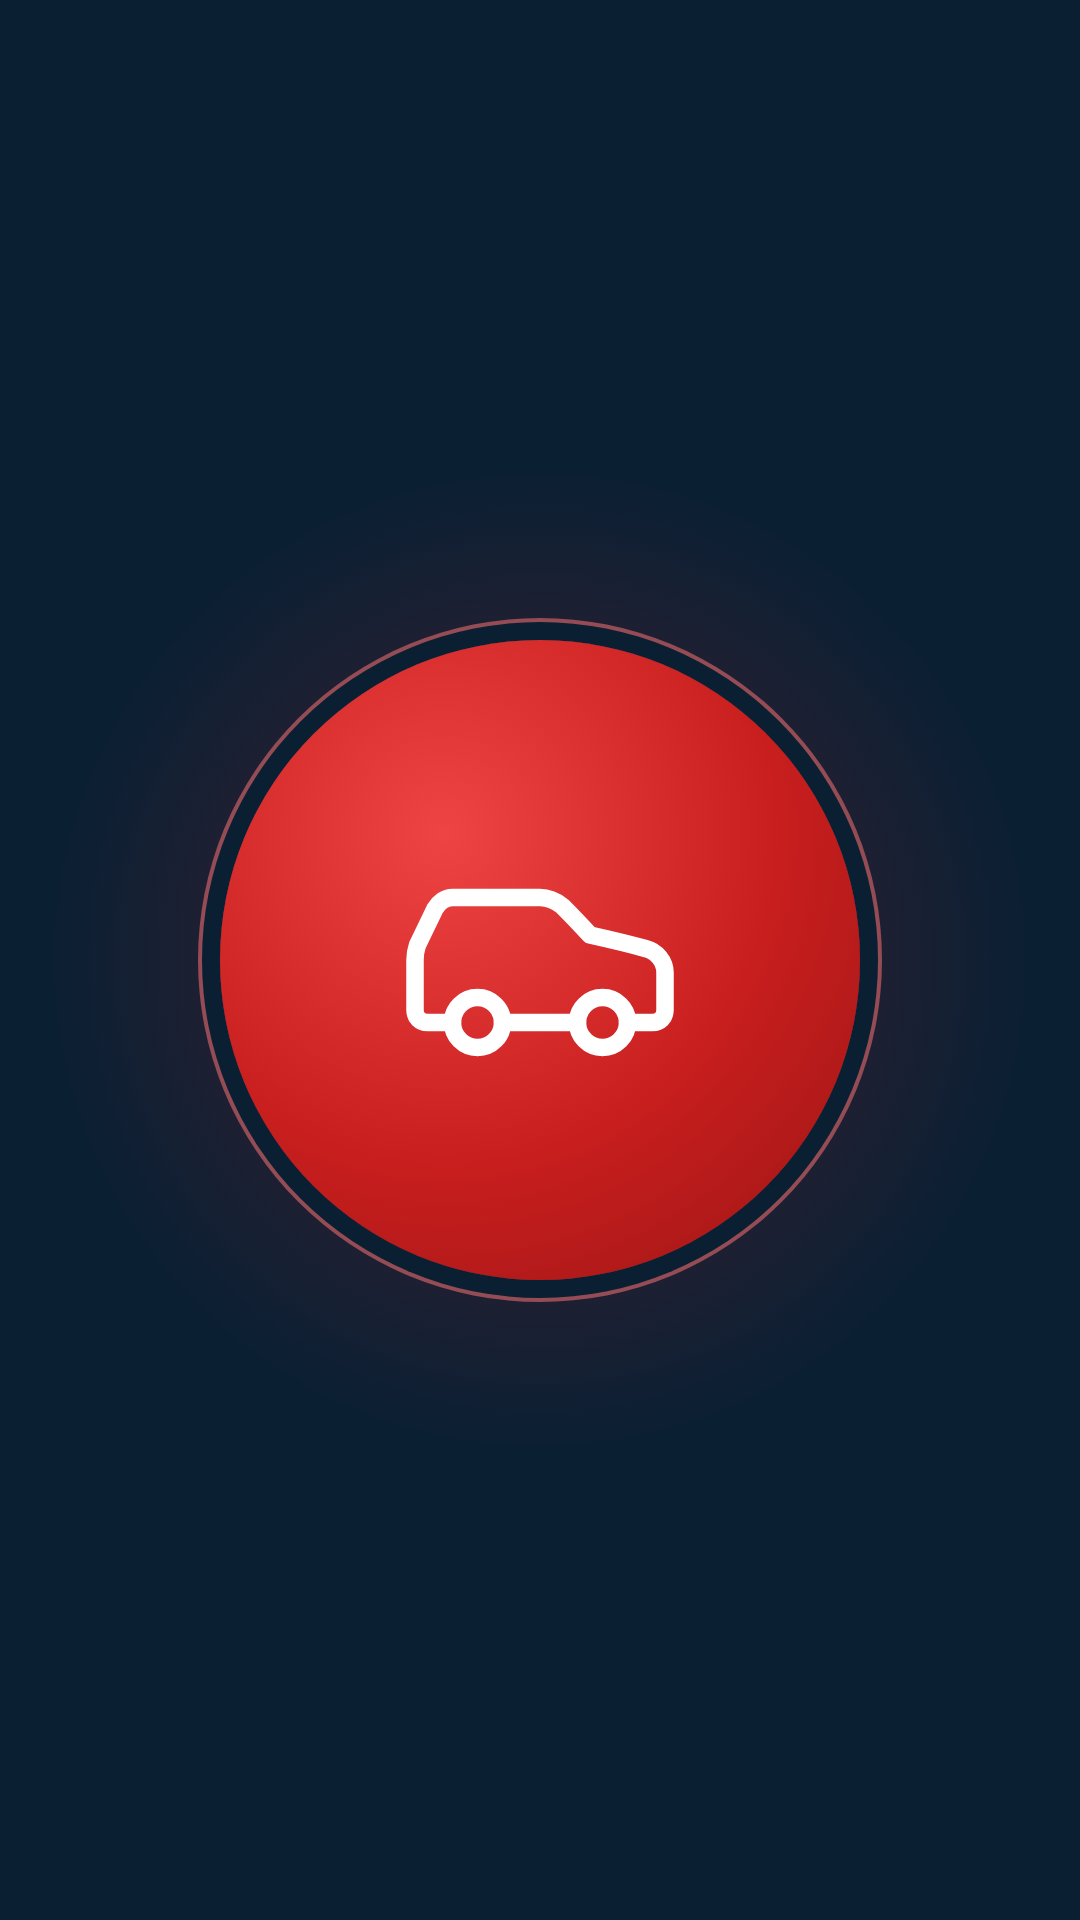
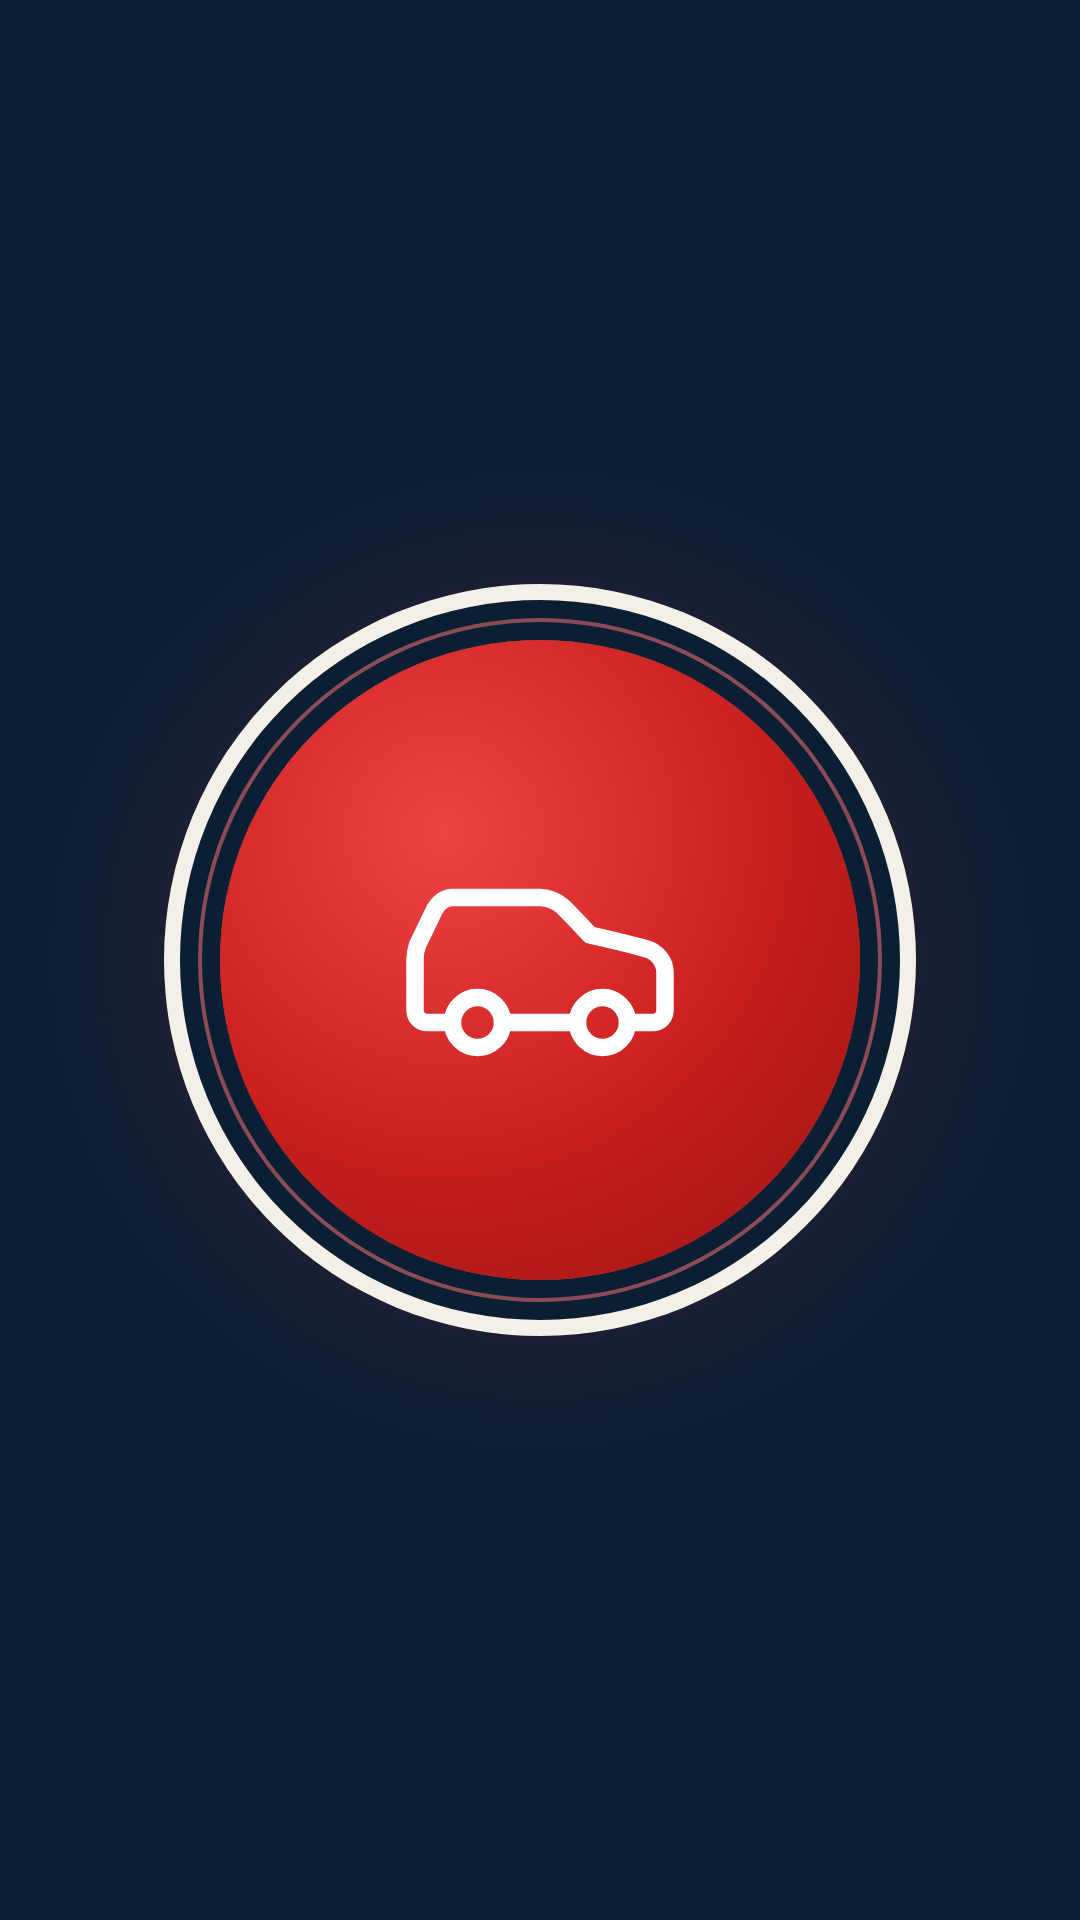
Redes: anillo marfil en las carátulas de destacadas
Claude-Session: https://claude.ai/code/session_017uhowZJtmGbGSZwToQsEiY

diff --git a/redes/caratula.js b/redes/caratula.js
@@ -4,6 +4,6 @@ const [icon, out] = process.argv.slice(2);
 const svg = fs.readFileSync(path.join(__dirname,'node_modules/lucide-static/icons',icon+'.svg'),'utf8').replace(/<!--[\s\S]*?-->/g,'').replace(/width="24"/,'width="300"').replace(/height="24"/,'height="300"').replace(/stroke-width="2"/,'stroke-width="1.4"');
 const html = `<!doctype html><html><head><meta charset="utf-8"><style>*{margin:0;box-sizing:border-box}html,body{width:1080px;height:1920px;overflow:hidden}
 .c{width:1080px;height:1920px;display:grid;place-items:center;background:radial-gradient(700px 700px at 50% 50%,rgba(220,38,38,.28),transparent 70%),#0b1f33}
-.r{width:640px;height:640px;border-radius:50%;background:radial-gradient(circle at 35% 30%,#ef4444,#c81e1e 55%,#9b1515);display:grid;place-items:center;box-shadow:0 0 0 18px #0b1f33,0 0 0 22px rgba(248,113,113,.55)}
+.r{width:640px;height:640px;border-radius:50%;background:radial-gradient(circle at 35% 30%,#ef4444,#c81e1e 55%,#9b1515);display:grid;place-items:center;box-shadow:0 0 0 18px #0b1f33,0 0 0 22px rgba(248,113,113,.55),0 0 0 40px #0b1f33,0 0 0 56px #f4f0e8}
 .r svg{color:#fff}</style></head><body><div class="c"><div class="r">${svg}</div></div></body></html>`;
 (async()=>{const b=await chromium.launch();const p=await b.newPage({viewport:{width:1080,height:1920}});await p.setContent(html);await p.screenshot({path:out});await b.close();})();
